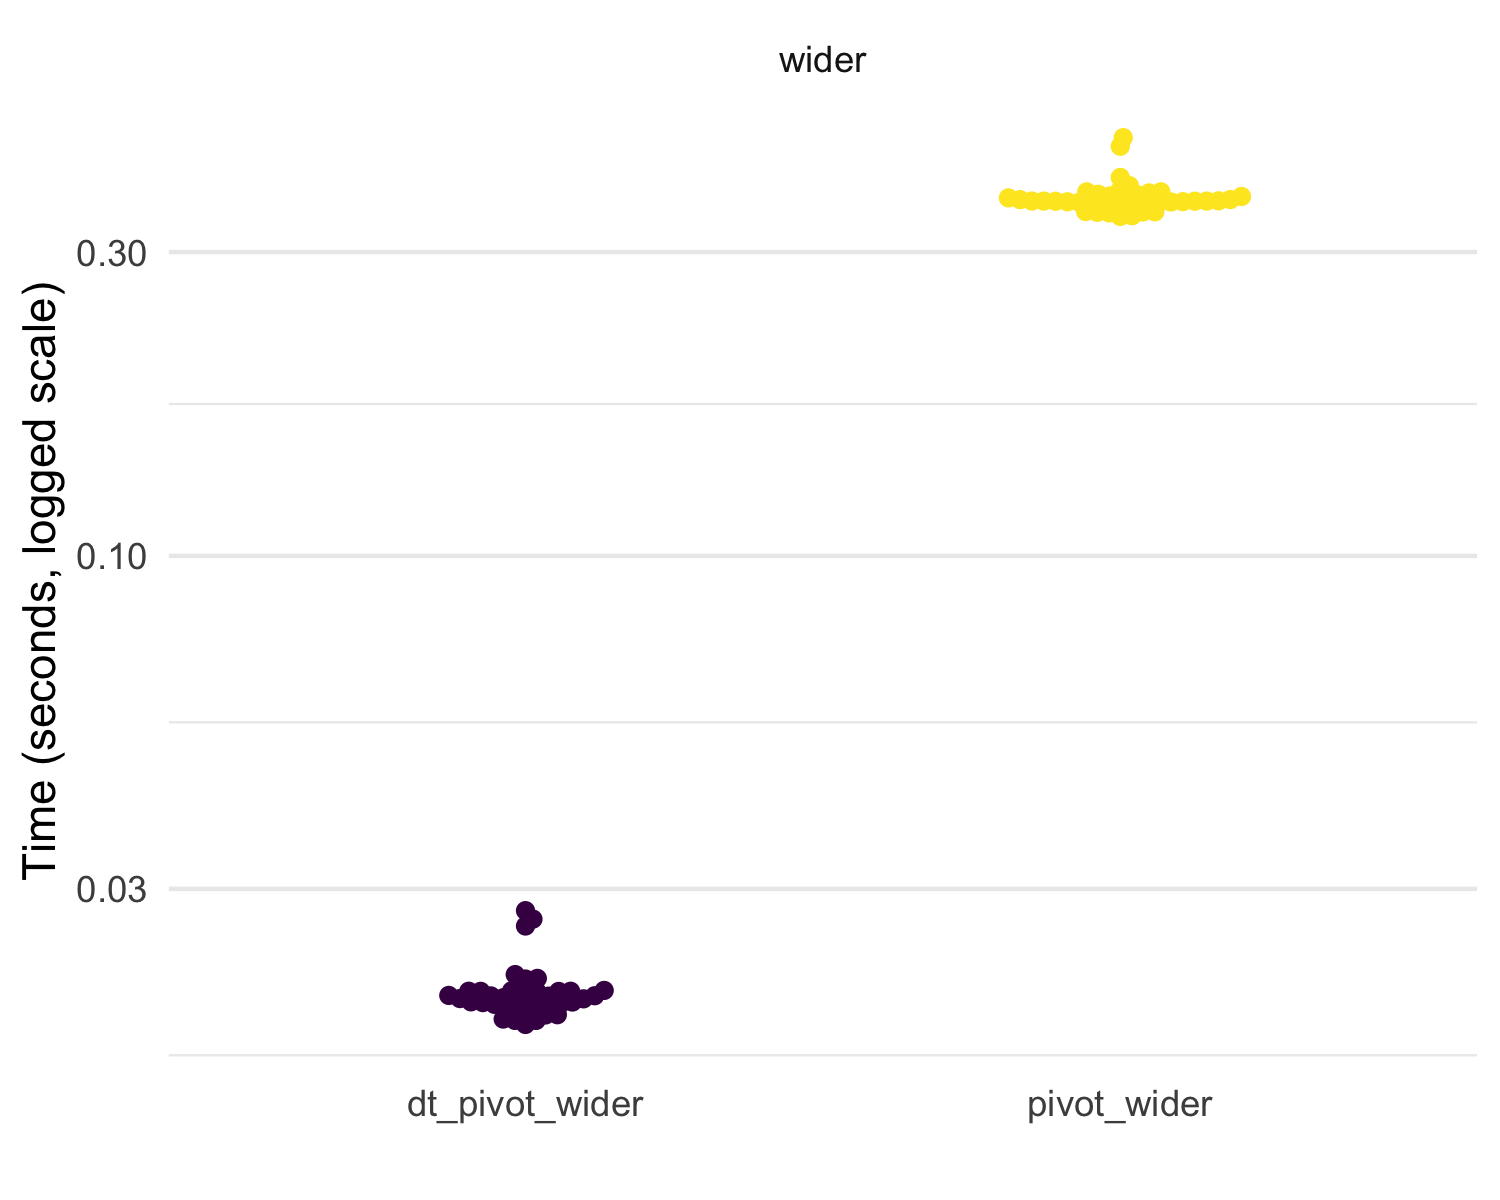
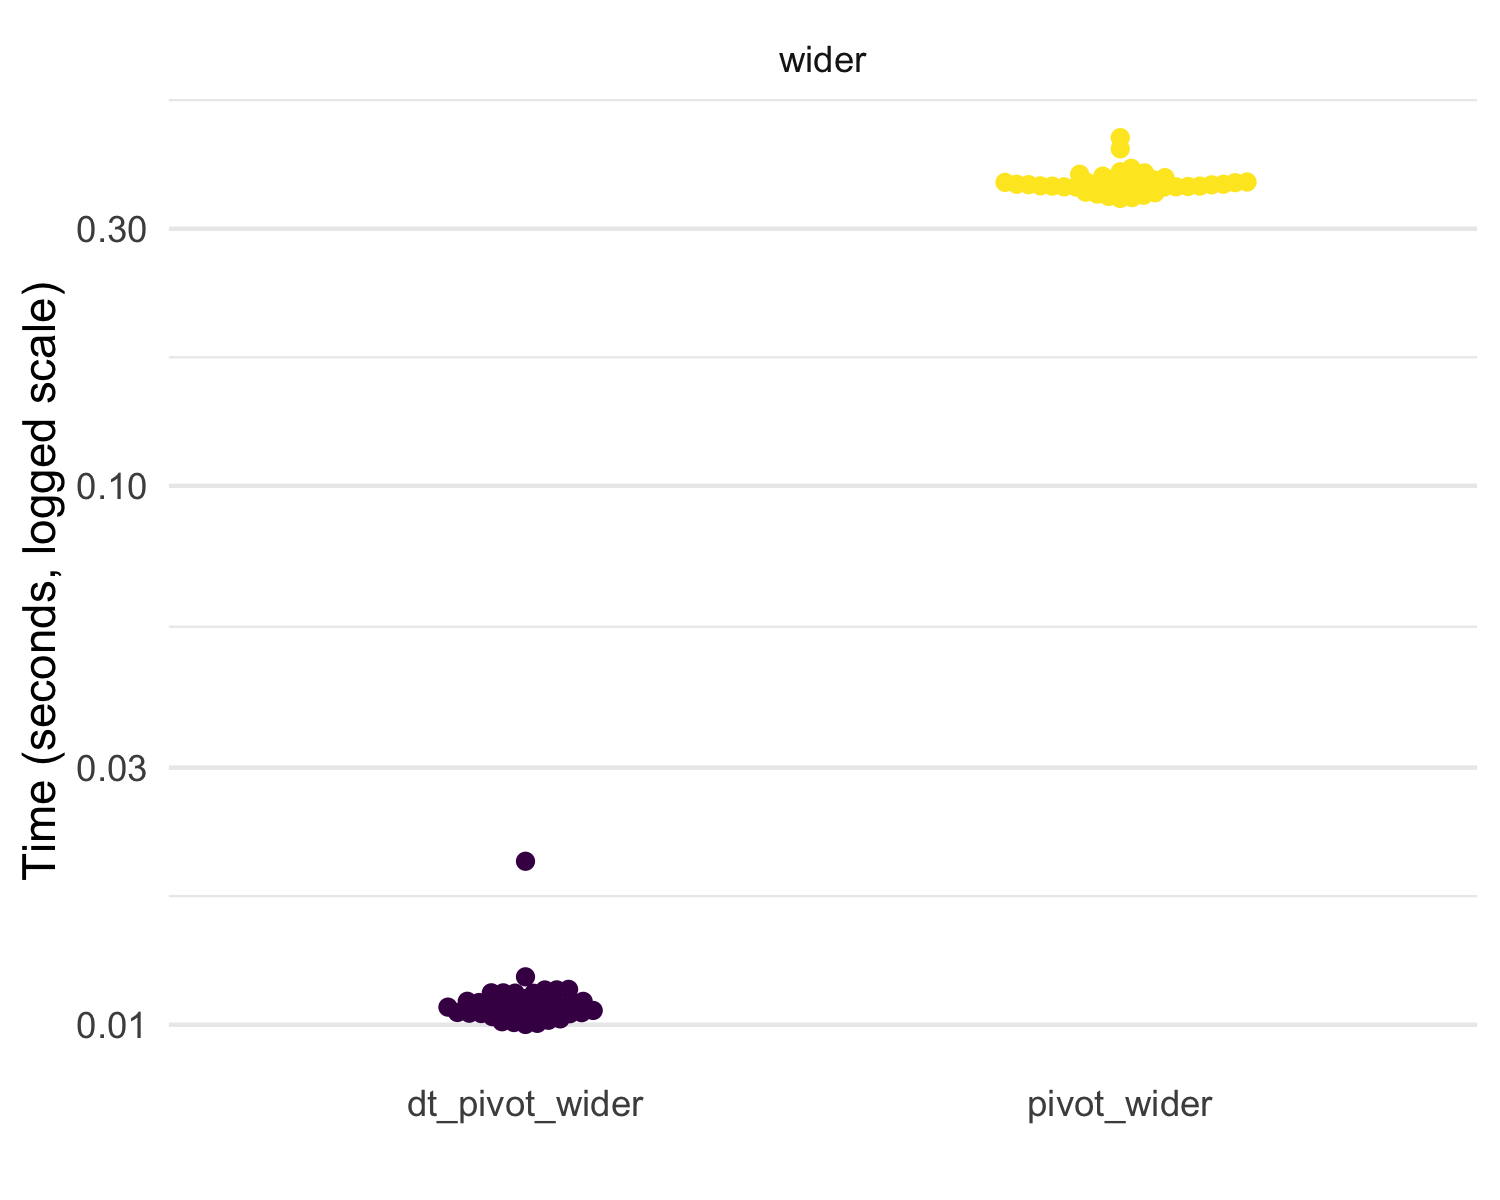
updated readme with fixed dt_pivot_wider

diff --git a/README.md b/README.md
@@ -84,8 +84,8 @@ and behavior where known.
 
 Each function that takes data (labeled as `dt_` in the package docs) as
 its first argument automatically coerces it to a data table with
-`as.data.table()` if it isn’t already a data table. These will return a
-data table.
+`as.data.table()` if it isn’t already a data table. Each of these
+functions will return a data table.
 
 ## Installation
 
@@ -184,7 +184,7 @@ well.
 
 ``` r
 dt_hoist(dt, nested1, nested2)
-#> The following columns were dropped because they are list-columns (but not being hoisted): nested1, nested2
+#> The following columns were dropped because they are list-columns (but not being hoisted):
 #>                  x         y grp     id nested1 nested2
 #>       1: 0.1720703 0.3376675   2      1       1  thing1
 #>       2: 0.1720703 0.3376675   2      1       1  thing1
@@ -210,12 +210,12 @@ highlighted below. Notably, the timings are without the `nested1` and
     #>   expression   median mem_alloc
     #>   <chr>      <bch:tm> <bch:byt>
     #> 1 dt_nest      3.16ms    2.88MB
-    #> 2 group_nest   4.86ms    2.54MB
+    #> 2 group_nest   4.79ms    2.54MB
     #> # A tibble: 2 x 3
     #>   expression   median mem_alloc
     #>   <chr>      <bch:tm> <bch:byt>
-    #> 1 dt_unnest    4.97ms    5.49MB
-    #> 2 unnest      12.47ms    8.47MB
+    #> 1 dt_unnest     4.7ms    5.49MB
+    #> 2 unnest       12.6ms    8.47MB
 
 ## Pivoting
 
@@ -231,75 +231,48 @@ billboard <- tidyr::billboard
 #   it did with the various data types---logical (where there were just NAs
 #   and numeric
 longer <- billboard %>%
- dt_pivot_longer(
-   cols = c(-artist, -track, -date.entered),
-   names_to = "week",
-   names_prefix = "wk",
-   values_to = "rank"
- )
+  dt_pivot_longer(
+     cols = c(-artist, -track, -date.entered),
+     names_to = "week",
+     values_to = "rank"
+  )
 #> Warning in melt.data.table(data = dt_, id.vars = id_vars, measure.vars =
 #> cols, : 'measure.vars' [wk1, wk2, wk3, wk4, ...] are not all of the same
 #> type. By order of hierarchy, the molten data value column will be of type
 #> 'double'. All measure variables not of type 'double' will be coerced too.
 #> Check DETAILS in ?melt.data.table for more on coercion.
-head(longer)
-#>          artist                   track date.entered week rank
-#> 1:        2 Pac Baby Don't Cry (Keep...   2000-02-26  wk1   87
-#> 2:      2Ge+her The Hardest Part Of ...   2000-09-02  wk1   91
-#> 3: 3 Doors Down              Kryptonite   2000-04-08  wk1   81
-#> 4: 3 Doors Down                   Loser   2000-10-21  wk1   76
-#> 5:     504 Boyz           Wobble Wobble   2000-04-15  wk1   57
-#> 6:         98^0 Give Me Just One Nig...   2000-08-19  wk1   51
+longer
+#>                  artist                   track date.entered week rank
+#>     1:            2 Pac Baby Don't Cry (Keep...   2000-02-26  wk1   87
+#>     2:          2Ge+her The Hardest Part Of ...   2000-09-02  wk1   91
+#>     3:     3 Doors Down              Kryptonite   2000-04-08  wk1   81
+#>     4:     3 Doors Down                   Loser   2000-10-21  wk1   76
+#>     5:         504 Boyz           Wobble Wobble   2000-04-15  wk1   57
+#>    ---                                                                
+#> 24088:      Yankee Grey    Another Nine Minutes   2000-04-29 wk76   NA
+#> 24089: Yearwood, Trisha         Real Live Woman   2000-04-01 wk76   NA
+#> 24090:  Ying Yang Twins Whistle While You Tw...   2000-03-18 wk76   NA
+#> 24091:    Zombie Nation           Kernkraft 400   2000-09-02 wk76   NA
+#> 24092:  matchbox twenty                    Bent   2000-04-29 wk76   NA
 
 wider <- longer %>% 
   dt_pivot_wider(
     names_from = week,
     values_from = rank
   )
-#> Aggregate function missing, defaulting to 'length'
-head(wider)
-#>          artist wk1 wk10 wk11 wk12 wk13 wk14 wk15 wk16 wk17 wk18 wk19 wk2
-#> 1:        2 Pac   1    1    1    1    1    1    1    1    1    1    1   1
-#> 2:      2Ge+her   1    1    1    1    1    1    1    1    1    1    1   1
-#> 3: 3 Doors Down   2    2    2    2    2    2    2    2    2    2    2   2
-#> 4:     504 Boyz   1    1    1    1    1    1    1    1    1    1    1   1
-#> 5:         98^0   1    1    1    1    1    1    1    1    1    1    1   1
-#> 6:      A*Teens   1    1    1    1    1    1    1    1    1    1    1   1
-#>    wk20 wk21 wk22 wk23 wk24 wk25 wk26 wk27 wk28 wk29 wk3 wk30 wk31 wk32
-#> 1:    1    1    1    1    1    1    1    1    1    1   1    1    1    1
-#> 2:    1    1    1    1    1    1    1    1    1    1   1    1    1    1
-#> 3:    2    2    2    2    2    2    2    2    2    2   2    2    2    2
-#> 4:    1    1    1    1    1    1    1    1    1    1   1    1    1    1
-#> 5:    1    1    1    1    1    1    1    1    1    1   1    1    1    1
-#> 6:    1    1    1    1    1    1    1    1    1    1   1    1    1    1
-#>    wk33 wk34 wk35 wk36 wk37 wk38 wk39 wk4 wk40 wk41 wk42 wk43 wk44 wk45
-#> 1:    1    1    1    1    1    1    1   1    1    1    1    1    1    1
-#> 2:    1    1    1    1    1    1    1   1    1    1    1    1    1    1
-#> 3:    2    2    2    2    2    2    2   2    2    2    2    2    2    2
-#> 4:    1    1    1    1    1    1    1   1    1    1    1    1    1    1
-#> 5:    1    1    1    1    1    1    1   1    1    1    1    1    1    1
-#> 6:    1    1    1    1    1    1    1   1    1    1    1    1    1    1
-#>    wk46 wk47 wk48 wk49 wk5 wk50 wk51 wk52 wk53 wk54 wk55 wk56 wk57 wk58
-#> 1:    1    1    1    1   1    1    1    1    1    1    1    1    1    1
-#> 2:    1    1    1    1   1    1    1    1    1    1    1    1    1    1
-#> 3:    2    2    2    2   2    2    2    2    2    2    2    2    2    2
-#> 4:    1    1    1    1   1    1    1    1    1    1    1    1    1    1
-#> 5:    1    1    1    1   1    1    1    1    1    1    1    1    1    1
-#> 6:    1    1    1    1   1    1    1    1    1    1    1    1    1    1
-#>    wk59 wk6 wk60 wk61 wk62 wk63 wk64 wk65 wk66 wk67 wk68 wk69 wk7 wk70
-#> 1:    1   1    1    1    1    1    1    1    1    1    1    1   1    1
-#> 2:    1   1    1    1    1    1    1    1    1    1    1    1   1    1
-#> 3:    2   2    2    2    2    2    2    2    2    2    2    2   2    2
-#> 4:    1   1    1    1    1    1    1    1    1    1    1    1   1    1
-#> 5:    1   1    1    1    1    1    1    1    1    1    1    1   1    1
-#> 6:    1   1    1    1    1    1    1    1    1    1    1    1   1    1
-#>    wk71 wk72 wk73 wk74 wk75 wk76 wk8 wk9
-#> 1:    1    1    1    1    1    1   1   1
-#> 2:    1    1    1    1    1    1   1   1
-#> 3:    2    2    2    2    2    2   2   2
-#> 4:    1    1    1    1    1    1   1   1
-#> 5:    1    1    1    1    1    1   1   1
-#> 6:    1    1    1    1    1    1   1   1
+wider[, .(artist, track, wk1, wk2)]
+#>                artist                   track wk1 wk2
+#>   1:            2 Pac Baby Don't Cry (Keep...  87  82
+#>   2:          2Ge+her The Hardest Part Of ...  91  87
+#>   3:     3 Doors Down              Kryptonite  81  70
+#>   4:     3 Doors Down                   Loser  76  76
+#>   5:         504 Boyz           Wobble Wobble  57  34
+#>  ---                                                 
+#> 313:      Yankee Grey    Another Nine Minutes  86  83
+#> 314: Yearwood, Trisha         Real Live Woman  85  83
+#> 315:  Ying Yang Twins Whistle While You Tw...  95  94
+#> 316:    Zombie Nation           Kernkraft 400  99  99
+#> 317:  matchbox twenty                    Bent  60  37
 ```
 
 Notably, there are some current limitations to these: 1) `tidyselect`
@@ -317,10 +290,10 @@ efficient.
     #> # A tibble: 4 x 3
     #>   expression        median mem_alloc
     #>   <chr>           <bch:tm> <bch:byt>
-    #> 1 dt_pivot_longer 908.81µs  993.47KB
+    #> 1 dt_pivot_longer   1.01ms  993.47KB
     #> 2 pivot_longer      6.29ms    2.63MB
-    #> 3 dt_pivot_wider   20.16ms     2.5MB
-    #> 4 pivot_wider     360.65ms    2.44MB
+    #> 3 dt_pivot_wider   10.78ms    1.86MB
+    #> 4 pivot_wider     361.81ms    2.43MB
 
 ### If Else
 
@@ -369,9 +342,9 @@ built on `data.table::fifelse()`.
     #> # A tibble: 3 x 3
     #>   expression     median mem_alloc
     #>   <chr>        <bch:tm> <bch:byt>
-    #> 1 case_when       132ms   148.8MB
-    #> 2 dt_case_when   34.4ms    34.3MB
-    #> 3 fifelse        34.1ms    34.3MB
+    #> 1 case_when     123.8ms   148.8MB
+    #> 2 dt_case_when   32.5ms    34.3MB
+    #> 3 fifelse          34ms    34.3MB
 
 ## Fill
 
@@ -479,8 +452,8 @@ marks3 <-
     #> # A tibble: 2 x 3
     #>   expression                                    median mem_alloc
     #>   <bch:expr>                                  <bch:tm> <bch:byt>
-    #> 1 tidyr::fill(dplyr::group_by(df3, id), x, y)   62.8ms    30.7MB
-    #> 2 tidyfast::dt_fill(dt3, x, y, id = list(id))   23.2ms    29.1MB
+    #> 1 tidyr::fill(dplyr::group_by(df3, id), x, y)   62.5ms    30.7MB
+    #> 2 tidyfast::dt_fill(dt3, x, y, id = list(id))   22.8ms    29.1MB
 
 ## Separate
 
@@ -522,9 +495,9 @@ than `tidyr::separate()`.
     #> # A tibble: 3 x 3
     #>   expression            median mem_alloc
     #>   <chr>               <bch:tm> <bch:byt>
-    #> 1 separate               339ms    11.6MB
-    #> 2 dt_separate            111ms    30.6MB
-    #> 3 dt_separate-mutable    106ms    26.7MB
+    #> 1 separate               358ms    11.6MB
+    #> 2 dt_separate            113ms    30.6MB
+    #> 3 dt_separate-mutable    108ms    26.7MB
 
 ## Count and Uncount
 
